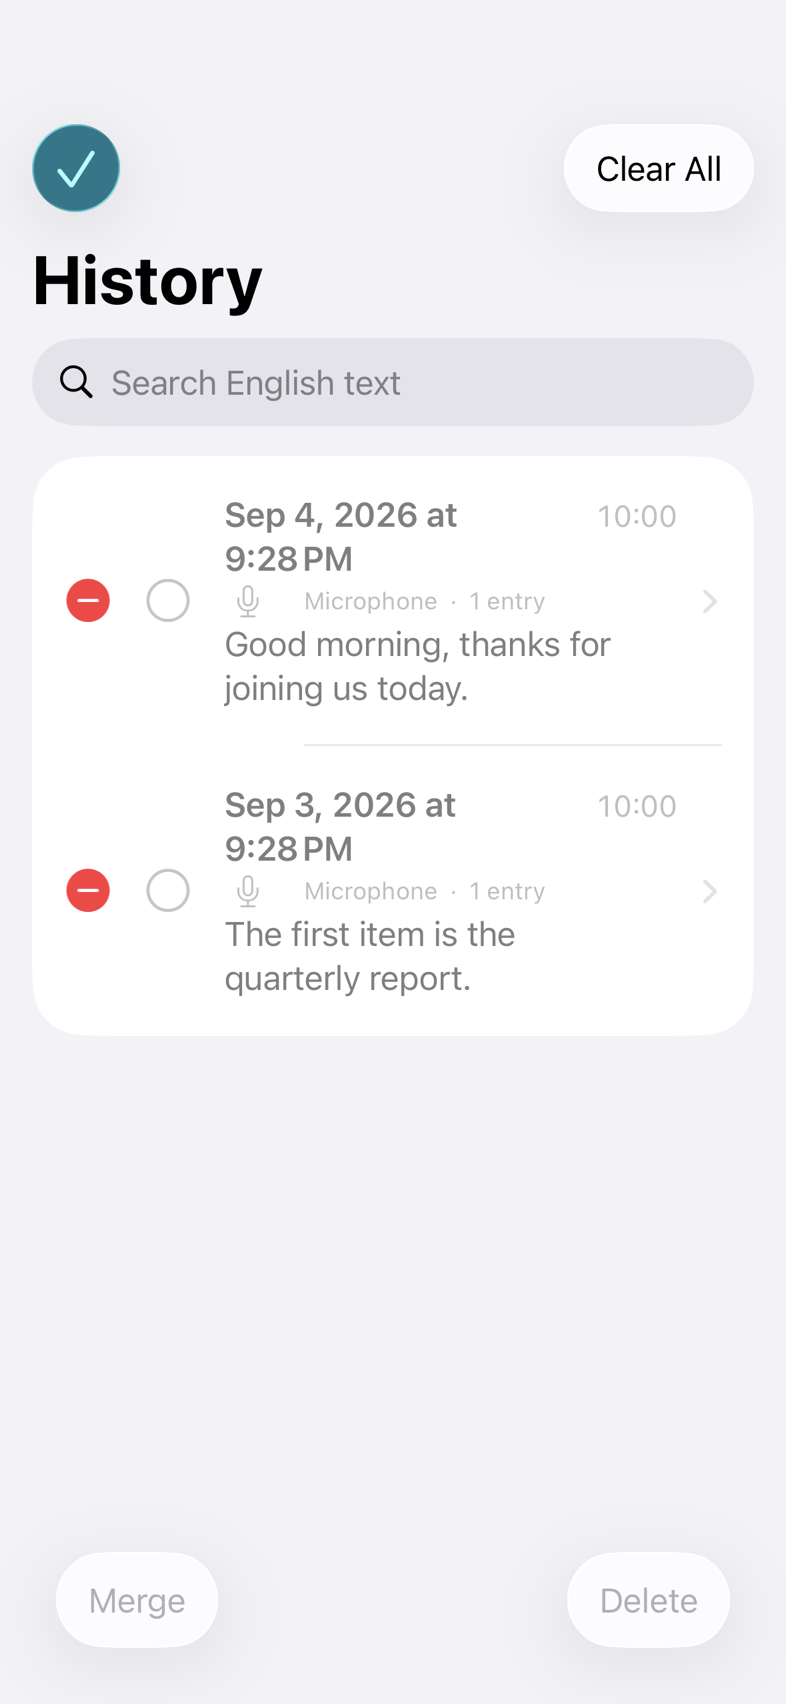
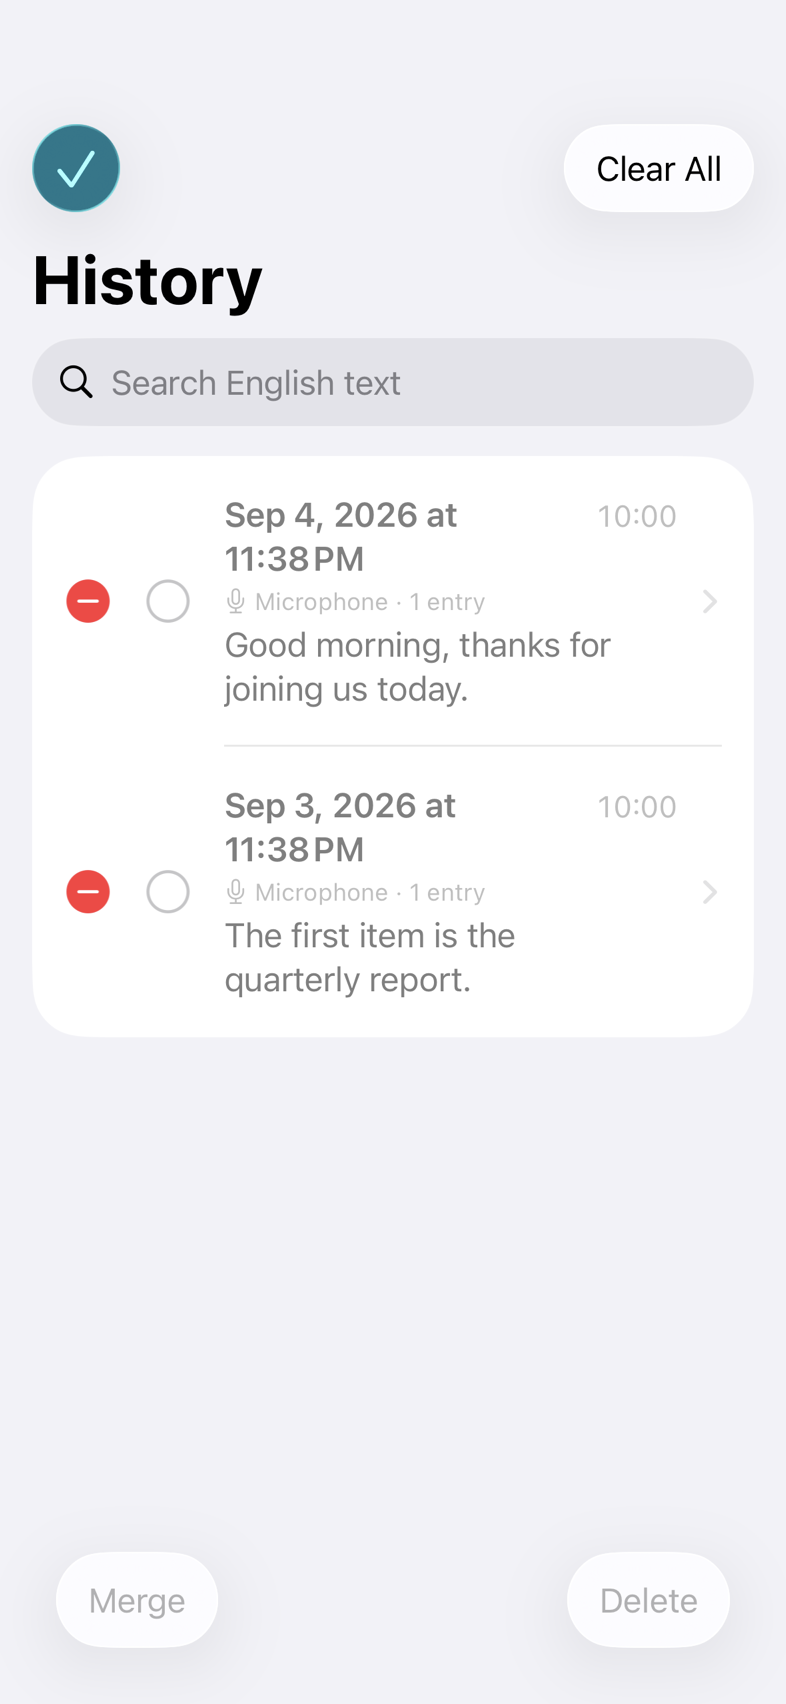
docs: milestone 10 screenshots
Eight images rendered by CI run 33929729698 from the real screens: the Live
screen with the wrapped control strip idle and locked, and the tutorial's
welcome and transcript pages, new in the README gallery.

Claude-Session: https://claude.ai/code/session_017rNMt2Xns5wUvUYmLHyjKR

diff --git a/README.md b/README.md
@@ -29,10 +29,12 @@ Live translation usually means sending audio to a server. ReVox does not have on
 
 | | | |
 |:---:|:---:|:---:|
-| ![The Live screen before a session: the source picker on Microphone, the Two-way card with Don't translate and Reply in pickers, the quick controls, and a teal Start button](docs/screenshots/live-idle.png) | ![The Live screen translating: the controls locked with "Stop to change this", two Spanish phrases with their English translations and ages, and a red Stop button](docs/screenshots/live-running.png) | ![The Models screen: tiny, base, small (Recommended, selected), medium and large-v3 with sizes and Download buttons, and the storage footer](docs/screenshots/models.png) |
-| **Live, ready to start** — pick a source, turn on Two-way, set the quick controls | **Live, translating** — the settings lock, each phrase shows its language, translation and age | **Models** — five Whisper sizes, the recommendation for this iPhone, and what they will cost in space |
+| ![The Live screen before a session: three rows of pills — Mic, Balanced, Duck on and an info button; Learn off, Two-way on and the volume; Leave alone English and Reply in Spanish — the status line, and a teal Start button](docs/screenshots/live-idle.png) | ![The Live screen translating: the pills dimmed behind a "Stop to change" lock, a Spanish phrase with the words as spoken above its English translation, three more phrases with their ages, and a red Stop button](docs/screenshots/live-running.png) | ![The Models screen: tiny, base, small (Recommended, selected), medium and large-v3 with sizes and Download buttons, and the storage footer](docs/screenshots/models.png) |
+| **Live, ready to start** — every control is a pill; the transcript gets the rest of the screen | **Live, translating** — the pills lock, and each phrase shows its language, translation and age | **Models** — five Whisper sizes, the recommendation for this iPhone, and what they will cost in space |
 | ![The Voices screen: the pocket-tts section with alba selected, azelma, cosette and javert, a Play sample button, and the System voices section below](docs/screenshots/voices.png) | ![The Settings screen: the three latency modes with an example of what the selected one does, the Source language picker with an example, and the Skip a language section](docs/screenshots/settings.png) | ![History in edit mode: two sessions with selection circles, the search field, Clear All, and the Merge and Delete bar](docs/screenshots/history-selecting.png) |
 | **Voices** — the four pocket-tts voices with a sample, or any English system voice | **Settings** — every setting shows an example of what it does with its current value | **History** — search across sessions, then select several to merge or delete |
+| ![The first tutorial page: a progress bar and Skip, the ReVox mark, "Welcome to ReVox", four bullet lines — hears the microphone or other apps, translates on the iPhone itself, speaks the translation aloud, keeps a transcript in History — and a Next button](docs/screenshots/onboarding-welcome.png) | ![The tutorial's transcript page: "Start and read", a demo transcript with four phrases and their ages, "Speaking the translation aloud", a red Stop capsule, and Back and Next buttons](docs/screenshots/onboarding-transcript.png) | |
+| **Tutorial, first page** — seven pages on the first launch, or from Settings any time | **Tutorial, the transcript** — a demo conversation types itself in and can be started and stopped | |
 
 <sub>Every screenshot here is rendered from the real screen by CI (`ScreenshotTests`), so they cannot drift from the app. See [ADR-0009](docs/adr/0009-screenshots-rendered-by-ci.md).</sub>
 
